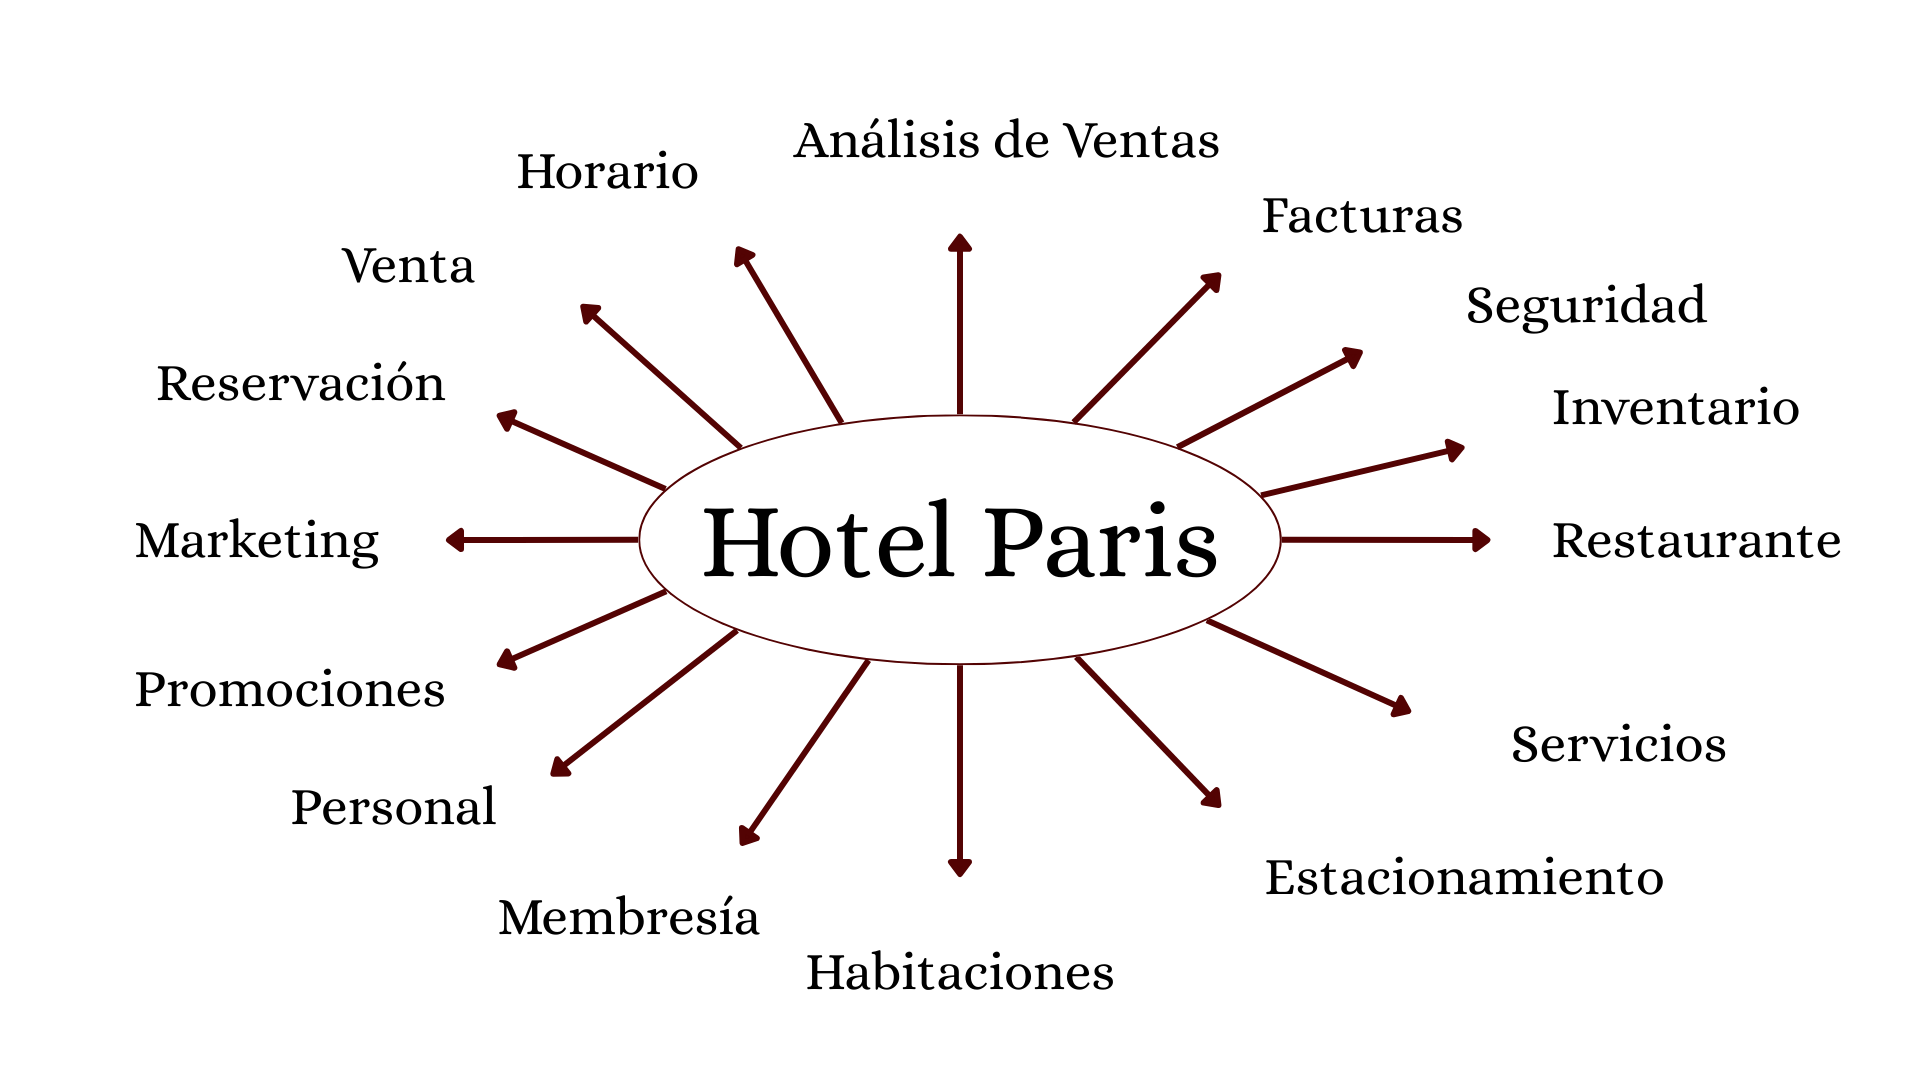
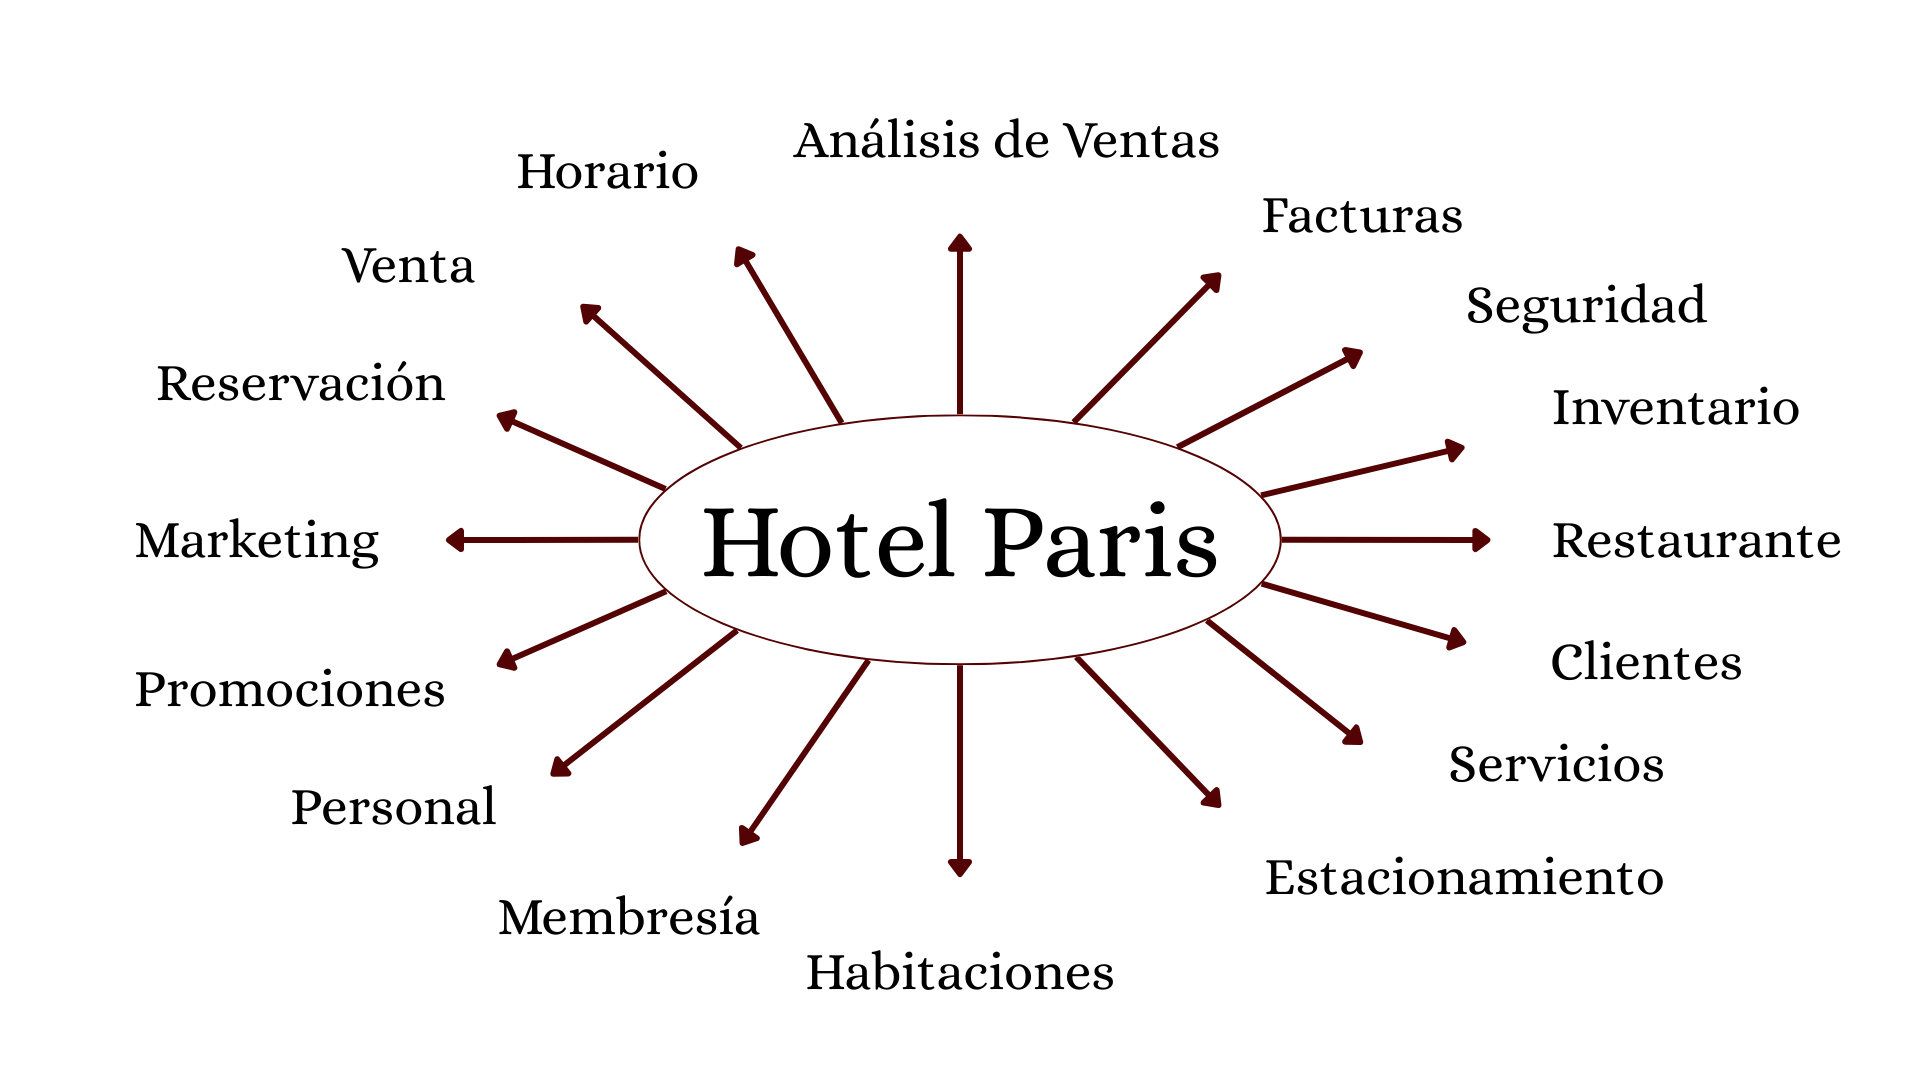
Modificación del objetivo

diff --git a/index.html b/index.html
@@ -138,7 +138,7 @@
     <!-- Objetivo -->
     <section>
       <h2>Objetivo</h2>
-      <p>Desarrollar un sistema que permita gestionar todos los procesos del Hotel París, facilitando el control de operaciones, optimizando recursos y brindando una mejor experiencia a huéspedes y empleados.</p>
+      <p>Desarrollar un sistema centralizado para optimizar la gestión del Hotel Paris, unificando toda la información en un solo repositorio de almacenamiento de datos.</p>
     </section>
 
     <!-- Subsistemas -->
@@ -160,6 +160,7 @@
         <button onclick="location.href='reservacion.html'">Reservación</button>
         <button onclick="location.href='venta.html'">Venta</button>
         <button onclick="location.href='horario.html'">Horario</button>
+        <button onclick="location.href='clientes.html'">Clientes</button>
       </div>
     </section>
 
